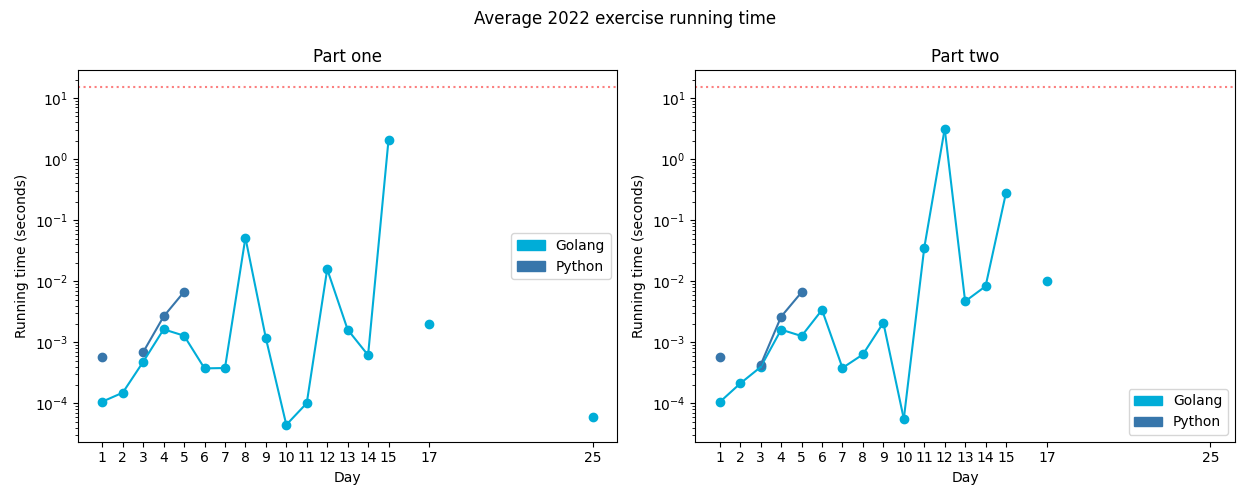
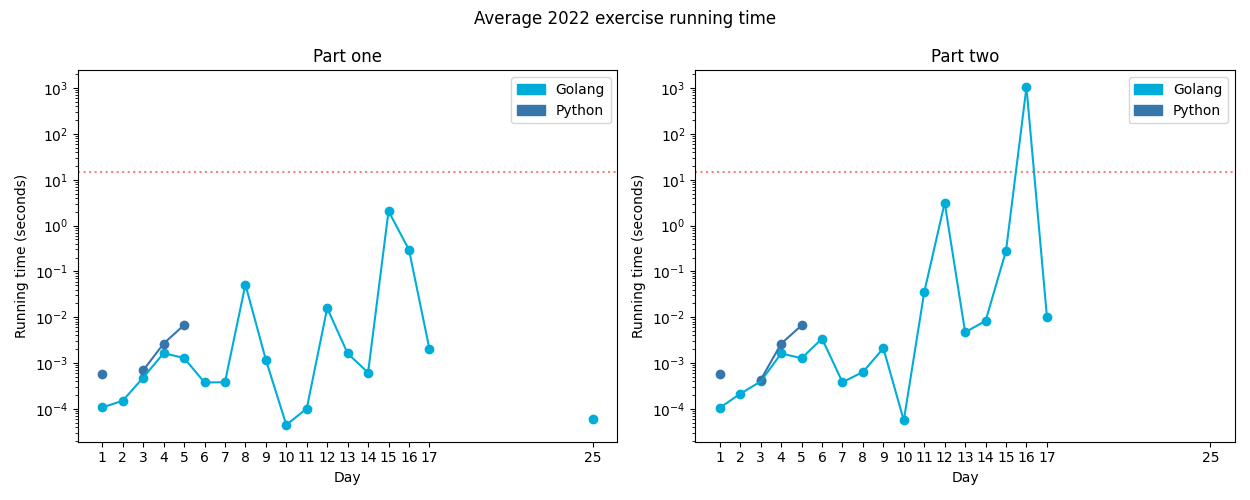
go solution for aoc22-16

diff --git a/exercises/2022/16-proboscideaVolcanium/go/exercise.go b/exercises/2022/16-proboscideaVolcanium/go/exercise.go
@@ -3,24 +3,40 @@ package exercises
 import (
 	"fmt"
 	"os"
-	"sort"
 	"strings"
 
 	"github.com/asphaltbuffet/advent-of-code/internal/common"
 )
 
+const MaxDistance = 999999
+
 var (
-	tracking map[string]int
-	open     map[string]bool
+	valves    map[string]valve
+	distances map[string]map[string]int
+	nonZero   []string
 )
 
+type Sequence struct {
+	flow    int
+	visited map[string]bool
+}
+
 type valve struct {
-	flowRate    int
+	flow        int
 	connections []string
 }
 
-func parse(input string) map[string]valve {
-	valves := map[string]valve{}
+// Exercise for Advent of Code 2022 day 16.
+type Exercise struct {
+	common.BaseExercise
+}
+
+func parse(input string) (map[string]valve, error) {
+	if len(input) == 0 {
+		return nil, fmt.Errorf("input is empty")
+	}
+
+	valves = map[string]valve{}
 
 	for _, line := range strings.Split(input, "\n") {
 		var name string
@@ -28,14 +44,14 @@ func parse(input string) map[string]valve {
 		parts := strings.Split(line, "; ")
 		v := valve{}
 
-		_, err := fmt.Sscanf(parts[0], "Valve %s has flow rate=%d", &name, &v.flowRate)
+		_, err := fmt.Sscanf(parts[0], "Valve %s has flow rate=%d", &name, &v.flow)
 		if err != nil {
-			panic("parsing valve name and flow rate" + err.Error())
+			return nil, fmt.Errorf("parsing valve name and flow rate: %w", err)
 		}
 
 		connections := strings.Split(parts[1], ", ")
 
-		if v.flowRate > 0 {
+		if v.flow > 0 {
 			nonZero = append(nonZero, name)
 		}
 
@@ -45,25 +61,24 @@ func parse(input string) map[string]valve {
 		valves[name] = v
 	}
 
-	return valves
-}
-
-// Exercise for Advent of Code 2022 day 16.
-type Exercise struct {
-	common.BaseExercise
+	return valves, nil
 }
 
 // Vis is the visualization of the exercise.
-func (c Exercise) Vis(instr string, outdir string) error {
+func (e Exercise) Vis(instr string, outdir string) error {
 	sb := strings.Builder{}
 
-	rooms := parse(instr)
+	rooms, err := parse(instr)
+	if err != nil {
+		return fmt.Errorf("parsing input: %w", err)
+	}
+
 	connections := map[string]bool{}
 
 	sb.WriteString("flowchart TD\n")
 
 	for k, v := range rooms {
-		sb.WriteString(fmt.Sprintf("\t%s[%s: %d]\n", k, k, v.flowRate))
+		sb.WriteString(fmt.Sprintf("\t%s[%s: %d]\n", k, k, v.flow))
 
 		for _, c := range v.connections {
 			if _, ok := connections[fmt.Sprintf("%s --- %s", c, k)]; !ok {
@@ -76,7 +91,7 @@ func (c Exercise) Vis(instr string, outdir string) error {
 		sb.WriteString(fmt.Sprintf("\t%s\n", k))
 	}
 
-	err := os.WriteFile(outdir+"/vis.txt", []byte(sb.String()), 0o600)
+	err = os.WriteFile(outdir+"/vis.mmd", []byte(sb.String()), 0o600)
 	if err != nil {
 		return fmt.Errorf("writing visualization to file: %w", err)
 	}
@@ -89,91 +104,159 @@ func (c Exercise) Vis(instr string, outdir string) error {
 // wrong: 1566 (too low)
 // wrong: 1589 (too low)
 // answer: 1647
-func (c Exercise) One(instr string) (any, error) {
-	valves := parse(instr)
+func (e Exercise) One(instr string) (any, error) {
+	var err error
 
-	// track best flow for each state
-	tracking = map[string]int{}
+	valves, err = parse(instr)
+	if err != nil {
+		return nil, fmt.Errorf("parsing input: %w", err)
+	}
 
-	// track open valves separately
-	open = map[string]bool{}
+	distances = floydWarshall(valves)
 
-	// we can skip checking effect of opening a valve if the flow is zero
-	for name, v := range valves {
-		if v.flowRate == 0 {
-			open[name] = true
+	sequences := getSequences("AA", 30, Sequence{0, make(map[string]bool)})
+
+	max := 0
+
+	// look at all possible sequences and find the best flow
+	for i := 0; i < len(sequences); i++ {
+		seq := sequences[i]
+
+		if seq.flow > max {
+			max = seq.flow
 		}
 	}
 
-	// start at AA and recurse through all paths, returning the best
-	return bfs(valves, "AA", 30, 0), nil
+	return max, nil
 }
 
 // Two returns the answer to the second part of the exercise.
 // answer:
-func (c Exercise) Two(instr string) (any, error) {
-	return nil, nil
-}
+func (e Exercise) Two(instr string) (any, error) {
+	var err error
 
-func bfs(valves map[string]valve, curRoom string, timeLeft, curFlow int) int {
-	if timeLeft == 0 {
-		return 0
+	valves, err = parse(instr)
+	if err != nil {
+		return nil, fmt.Errorf("parsing input: %w", err)
 	}
 
-	h := hash(curRoom, timeLeft, curFlow)
+	distances = floydWarshall(valves)
 
-	// if we've already seen this state, return the best flow
-	if v, ok := tracking[h]; ok {
-		return v
-	}
+	sequences := getSequences("AA", 26, Sequence{0, make(map[string]bool)})
 
-	maxFlow := 0
+	max := 0
 
-	// if the valve is closed, test result of opening it
-	if !open[curRoom] {
-		open[curRoom] = true
+	for i := 0; i < len(sequences)-1; i++ {
+		me := sequences[i]
+		if len(me.visited) == 0 {
+			continue
+		}
 
-		newFlow := curFlow + valves[curRoom].flowRate
+		for j := i + 1; j < len(sequences); j++ {
+			elephant := sequences[j]
+			if len(elephant.visited) == 0 {
+				continue
+			}
 
-		maxFlow = curFlow + bfs(valves, curRoom, timeLeft-1, newFlow)
+			combinedFlow := me.flow + elephant.flow
 
-		// close it for other testing (hash will track open state history)
-		open[curRoom] = false
-	}
-
-	// check adjacent valves (without opening this valve)
-	for _, v := range valves[curRoom].connections {
-		testFlow := curFlow + bfs(valves, v, timeLeft-1, curFlow)
-
-		if testFlow > maxFlow {
-			maxFlow = testFlow
+			if combinedFlow > max && hasNoOverlap(me.visited, elephant.visited) {
+				max = combinedFlow
+			}
 		}
 	}
 
-	tracking[h] = maxFlow
-
-	return maxFlow
+	return max, nil
 }
 
-func hash(valve string, timeLeft int, flow int) string {
-	names := make([]string, 0, len(open))
+func hasNoOverlap(m1, m2 map[string]bool) bool {
+	for key := range m1 {
+		if m2[key] {
+			return false
+		}
+	}
+	return true
+}
 
-	for k, isOpen := range open {
-		if isOpen {
-			names = append(names, k)
+func (s Sequence) copy() Sequence {
+	return Sequence{s.flow, copyMap(s.visited)}
+}
+
+func getSequences(curValve string, time int, curSeqence Sequence) []Sequence {
+	sequences := []Sequence{curSeqence}
+
+	// add all non-zero valves that haven't been visited
+	for i := 0; i < len(nonZero); i++ {
+		next := nonZero[i]
+		newTime := time - distances[curValve][next] - 1
+
+		if curSeqence.visited[next] || newTime <= 0 {
+			continue
+		}
+
+		newSeq := Sequence{
+			curSeqence.flow + newTime*valves[next].flow,
+			copyMap(curSeqence.visited),
+		}
+
+		newSeq.visited[next] = true
+
+		// get all sequences branching from this valve
+		// add all the results to sequence list
+		sequences = append(sequences, getSequences(next, newTime, newSeq)...)
+	}
+
+	return sequences
+}
+
+func floydWarshall(valves map[string]valve) map[string]map[string]int {
+	dist := make(map[string]map[string]int, len(valves))
+
+	// set initial distances
+	for i := range valves {
+		dist[i] = make(map[string]int)
+
+		for j := range valves {
+			switch {
+			case i == j:
+				dist[i][j] = 0
+			case contains(valves[i].connections, j):
+				dist[i][j] = 1
+			default:
+				dist[i][j] = MaxDistance
+			}
 		}
 	}
 
-	sort.Strings(names)
+	// run floyd-warshall
+	for k := range valves {
+		for i := range valves {
+			for j := range valves {
+				if dist[i][k]+dist[k][j] < dist[i][j] {
+					dist[i][j] = dist[i][k] + dist[k][j]
+				}
+			}
+		}
+	}
 
-	// switch to string builder to avoid creating intermediate strings
-	var sb strings.Builder
+	return dist
+}
 
-	sb.WriteString(valve)
-	sb.WriteString(fmt.Sprint(timeLeft))
-	sb.WriteString(strings.Join(names, ""))
-	sb.WriteString(fmt.Sprint(flow))
+func contains(arr []string, val string) bool {
+	for _, v := range arr {
+		if v == val {
+			return true
+		}
+	}
 
-	// return fmt.Sprint(valve, timeLeft, names, flow)
-	return sb.String()
+	return false
+}
+
+func copyMap(m map[string]bool) map[string]bool {
+	mcopy := make(map[string]bool)
+	for k, v := range m {
+		mcopy[k] = v
+	}
+
+	return mcopy
 }

diff --git a/pkg/runners/golangRunner.go b/pkg/runners/golangRunner.go
@@ -137,7 +137,10 @@ func (g *golangRunner) Run(task *Task) (*Result, error) {
 		return nil, err
 	}
 
-	_, _ = g.stdin.Write(append(taskJSON, '\n'))
+	_, err = g.stdin.Write(append(taskJSON, '\n'))
+	if err != nil {
+		return nil, err
+	}
 
 	res := new(Result)
 

diff --git a/exercises/2022/README.md b/exercises/2022/README.md
@@ -10,7 +10,7 @@
 | [Day 2: Rock Paper Scissors](02-rockPaperScissors/README.md)          |  ★ ★  | [Go](02-rockPaperScissors/go), [Python](02-rockPaperScissors/py)           |
 | [Day 3: Rucksack Reorganization](03-rucksackReorganization/README.md) |  ★ ★  | [Go](03-rucksackReorganization/go), [Python](03-rucksackReorganization/py) |
 | [Day 4: Camp Cleanup](04-campCleanup/README.md)                       |  ★ ★  | [Go](04-campCleanup/go), [Python](04-campCleanup/py)                       |
-| [Day 5: Supply Stacks](05-supplyStacks/README.md)                     |  ★ ★  | [Go](05-supplyStacks/go), [Python](05-supplyStacks/py)              |
+| [Day 5: Supply Stacks](05-supplyStacks/README.md)                     |  ★ ★  | [Go](05-supplyStacks/go), [Python](05-supplyStacks/py)                     |
 | [Day 6: Tuning Trouble](06-tuningTrouble/README.md)                   |  ★ ★  | [Go](06-tuningTrouble/go)                                                  |
 | [Day 7: No Space Left On Device](07-noSpaceLeftOnDevice/README.md)    |  ★ ★  | [Go](07-noSpaceLeftOnDevice/go)                                            |
 | [Day 8: Treetop Tree House](08-treetopTreeHouse/README.md)            |  ★ ★  | [Go](08-treetopTreeHouse/go)                                               |
@@ -21,7 +21,7 @@
 | [Day 13: Distress Signal](13-distressSignal/README.md)                |  ★ ★  | [Go](13-distressSignal/go)                                                 |
 | [Day 14: Regolith Reservoir](14-regolithReservoir/README.md)          |  ★ ★  | [Go](14-regolithReservoir/go)                                              |
 | [Day 15: Beacon Exclusion Zone](15-beaconExclusionZone/README.md)     |  ★ ★  | [Go](15-beaconExclusionZone/go)                                            |
-| [Day 16: Proboscidea Volcanium](16-proboscideaVolcanium/go)           |  ★ ☆  | [Go](16-proboscideaVolcanium/go)                                           |
+| [Day 16: Proboscidea Volcanium](16-proboscideaVolcanium/go)           |  ★ ★  | [Go](16-proboscideaVolcanium/go)                                           |
 | [Day 17: Pyroclastic Flow](17-pyroclasticFlow/README.md)              |  ★ ★  | [Go](17-pyroclasticFlow/go), [Python](17-pyroclasticFlow/py)               |
 | 18                                                                    |  ☆ ☆  |                                                                            |
 | 19                                                                    |  ☆ ☆  |                                                                            |

diff --git a/exercises/2022/16-proboscideaVolcanium/README.md b/exercises/2022/16-proboscideaVolcanium/README.md
@@ -5,7 +5,14 @@ aka, let's learn about [Floyd-Warshall](https://en.wikipedia.org/wiki/Floyd%E2%8
 ## Go
 
 ```text
-    < section intentionally left blank >
+2022-16 Proboscidea Volcanium (Golang)
+
+Running...
+
+Test 1.0: pass in 1.5518 ms
+Test 2.0: pass in 67.911288 s
+Part 1: 1647 in 296.0248 ms
+Part 2: 2169 in 1043.183 s
 ```
 
 ## Python
